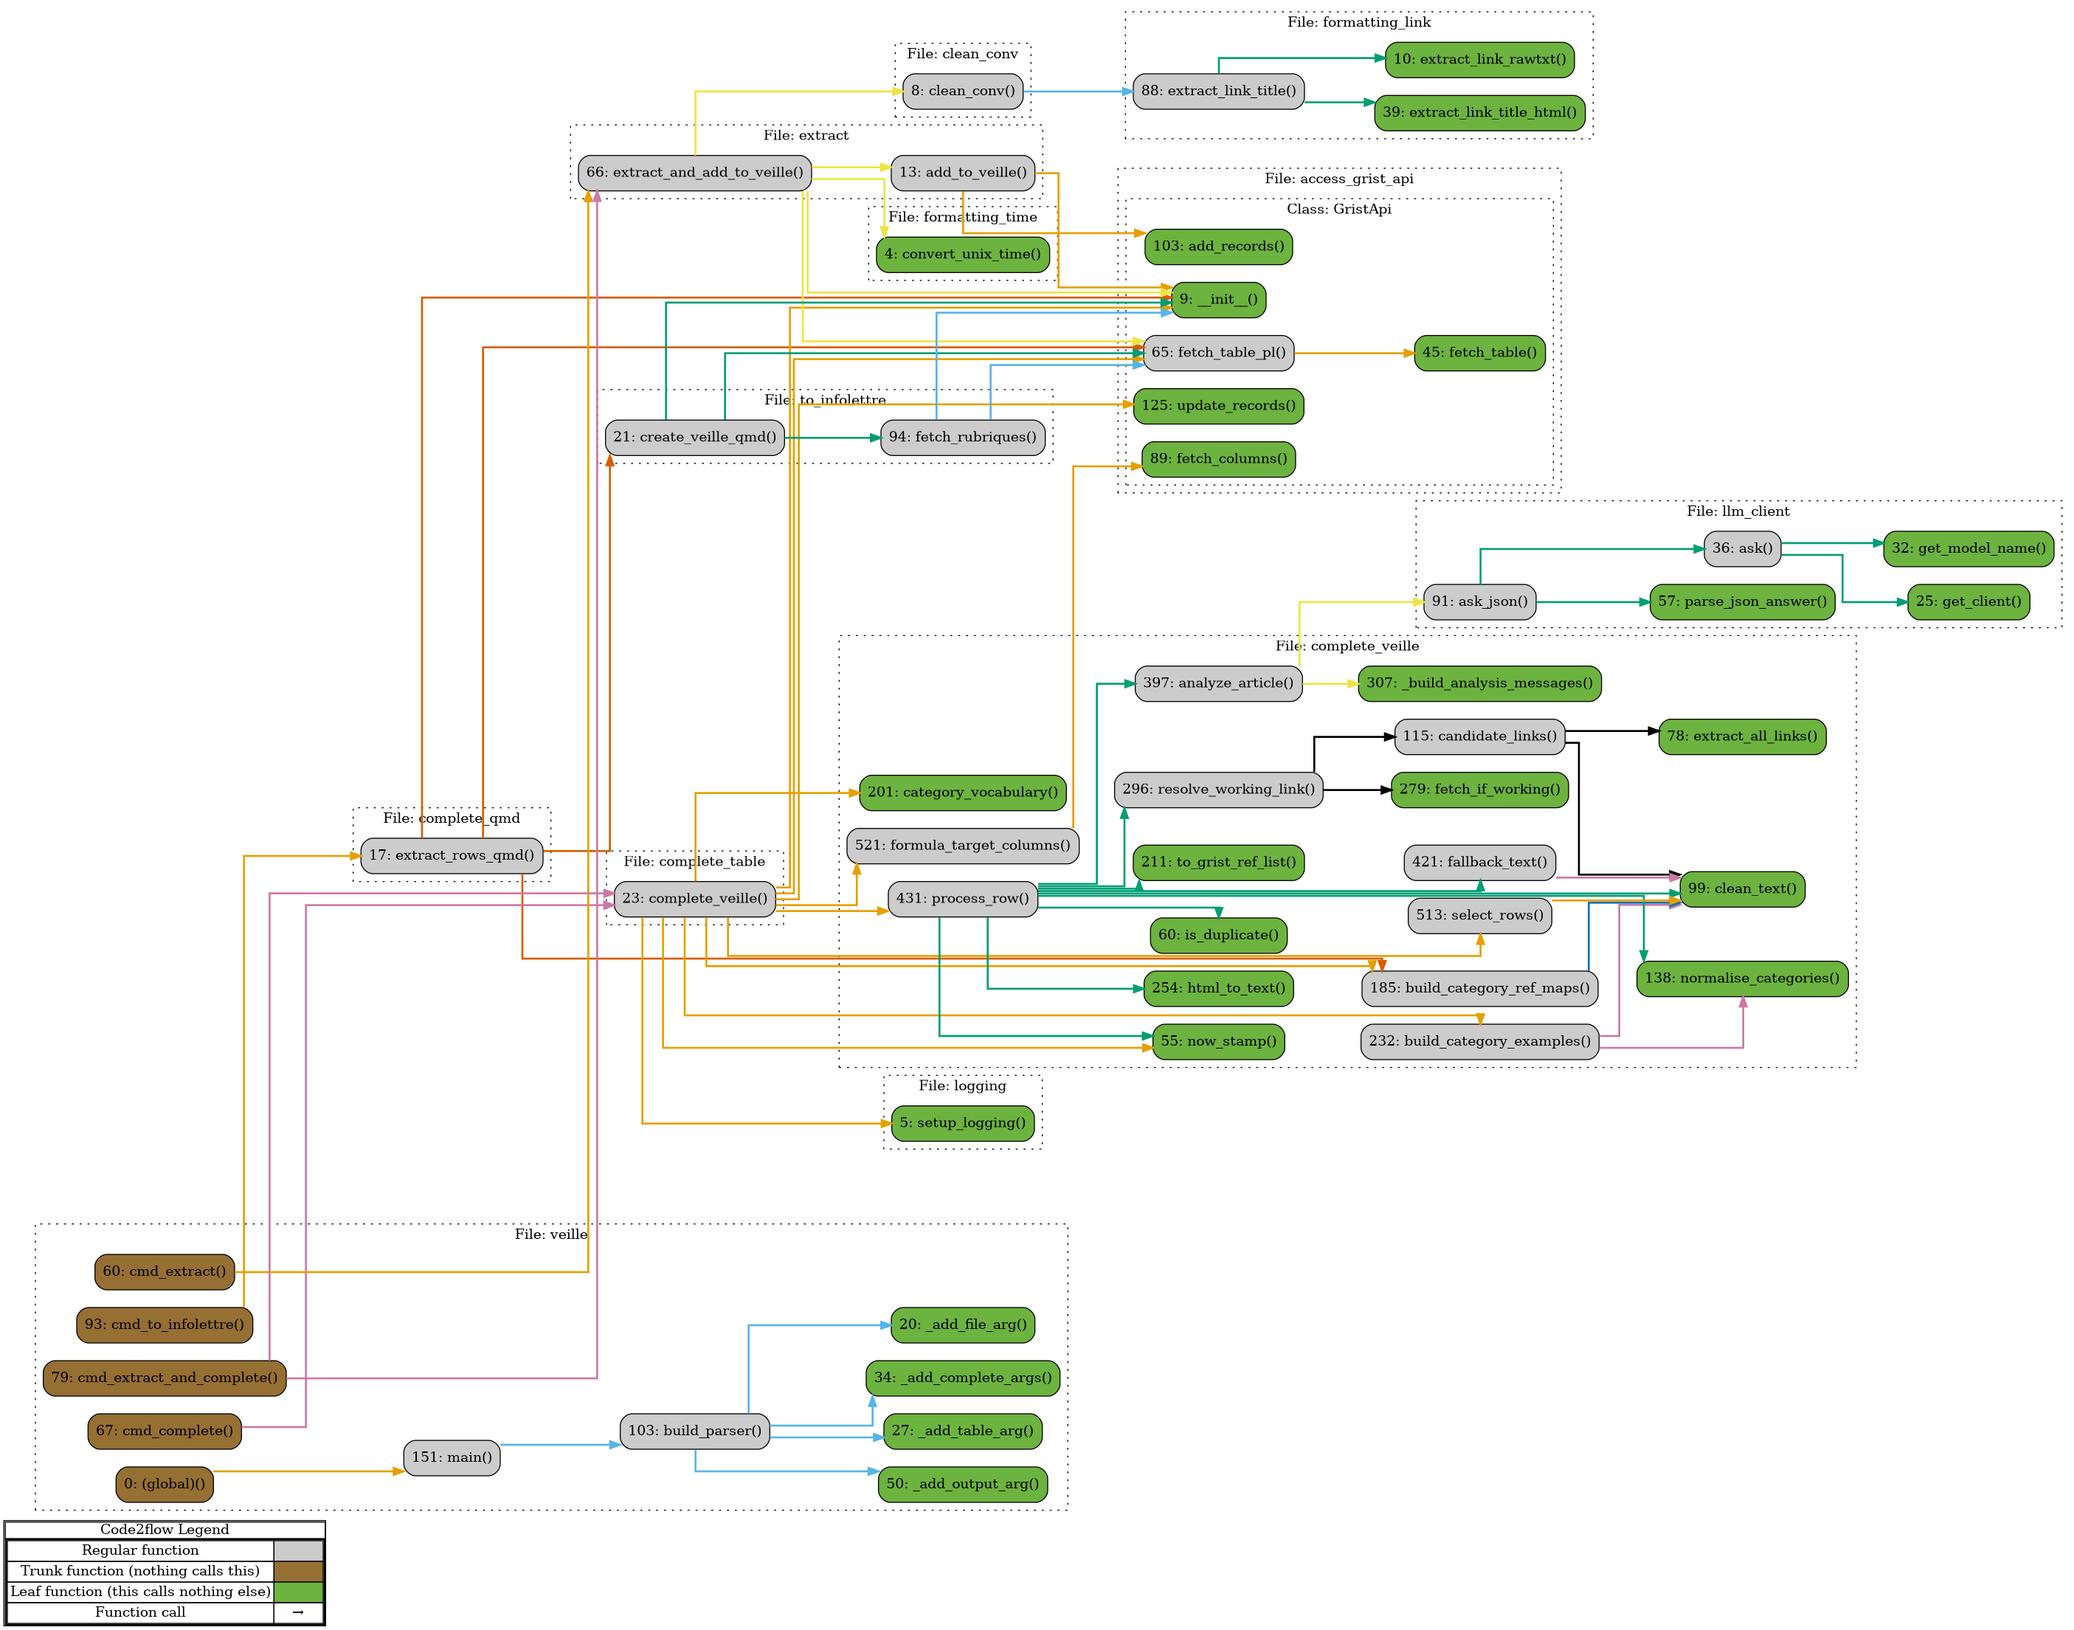
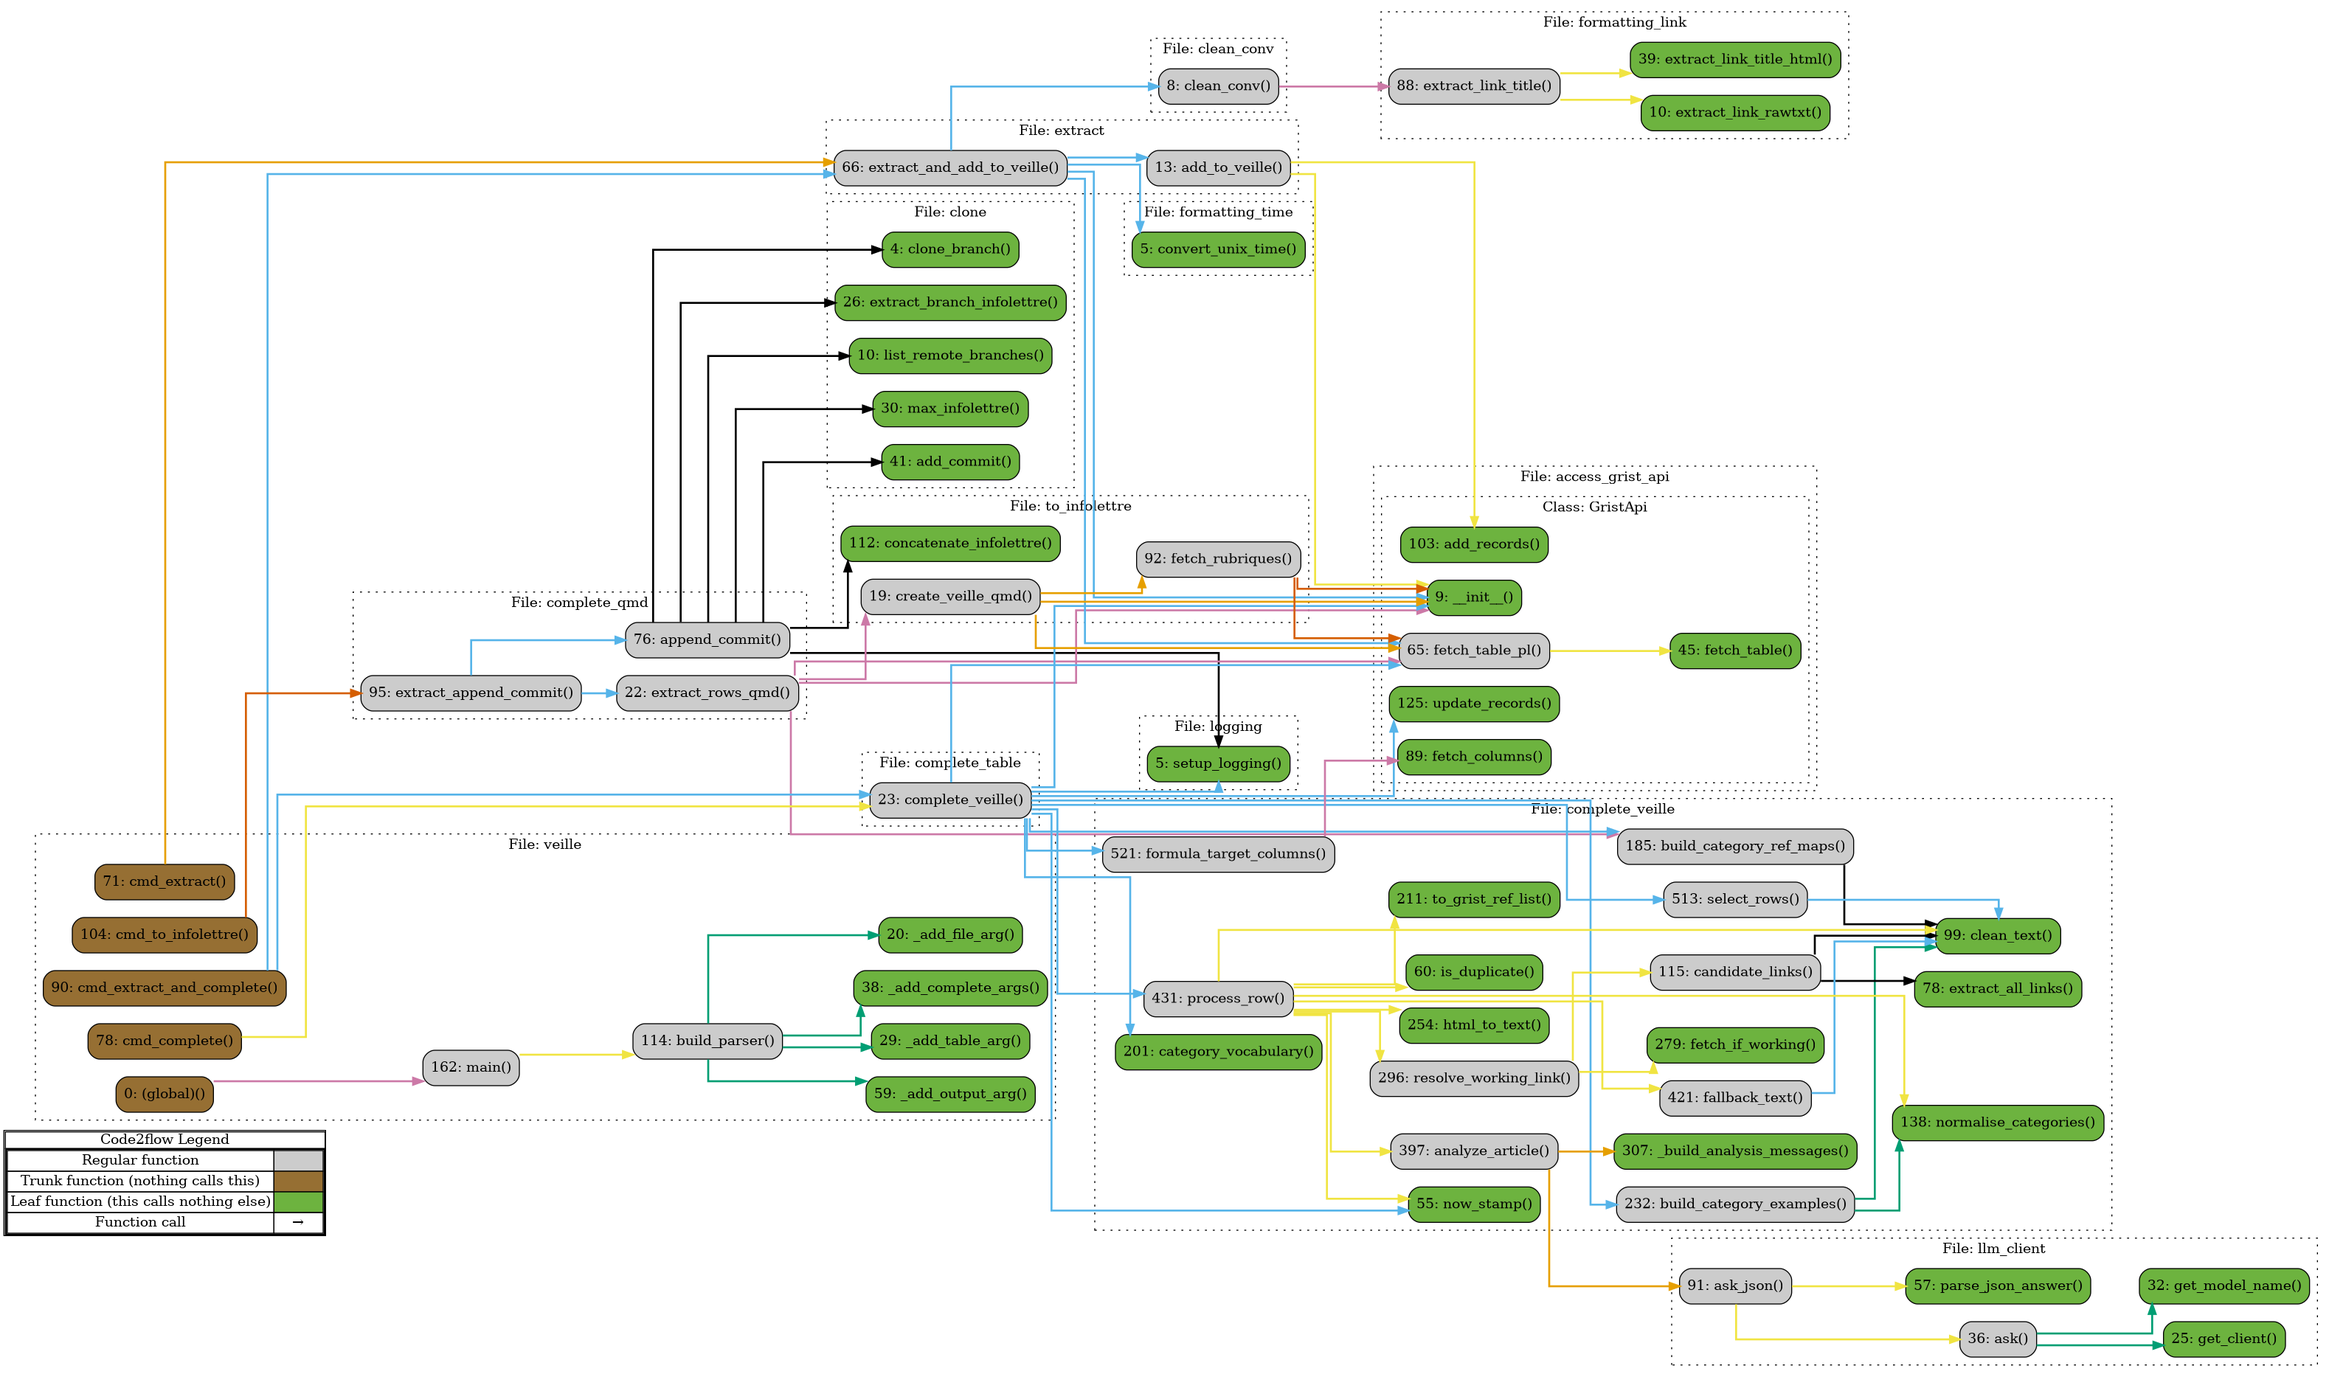
Add function to commit veille output to SSPHub (#21)
* with file concatenation

* file concatenation with logger

* init git part

* extract infolettre max nb

* extract branches

* update extract infolettre from branch

* update extract max branch + git add commit

* add append and commit function

* add wraper extract and append commit

* fix bug add commit

* update global function

* add git push

* update doc

---------

diff --git a/src/complete_qmd.py b/src/complete_qmd.py
@@ -1,17 +1,22 @@
 """
-Once the data has been filled, extract all the "a_garder" and format them in 
+Once the data has been filled, extract all the "a_garder" and format them in
 markdown format for easier writing.
 """
 
-
 import polars as pl
 
-from src.utils.access_grist_api import GristApi
-from src.utils.logging import setup_logging
 from src.data.complete_veille import build_category_ref_maps
-
-from src.data.to_infolettre import create_veille_qmd
-from src.utils.config import TABLE_RUBRIQUES, COL_CATEGORY
+from src.data.to_infolettre import concatenate_infolettre, create_veille_qmd
+from src.git.clone import (
+    add_commit,
+    clone_branch,
+    extract_branch_infolettre,
+    list_remote_branches,
+    max_infolettre,
+)
+from src.utils.access_grist_api import GristApi
+from src.utils.config import COL_CATEGORY, TABLE_RUBRIQUES
+from src.utils.logging import setup_logging
 
 
 def extract_rows_qmd(
@@ -20,12 +25,12 @@ def extract_rows_qmd(
     logger=setup_logging(),
 ):
     """
-    wrapper to extract from the table records a garder, format them into a markdown list 
+    wrapper to extract from the table records a garder, format them into a markdown list
     and store them as qmd file.
 
     Args:
         input_table : Grist table id to fetch the rows from.
-        output_path (string) : path of the Qmd file to store the results 
+        output_path (string) : path of the Qmd file to store the results
 
     Returns:
         the markdown formatted text
@@ -37,21 +42,14 @@ def extract_rows_qmd(
 
     # Download data to filter urls
     logger.info(f"Début du téléchargement de la table Grist cible {input_table}")
-    veille_df = (
-        api.fetch_table_pl(table_id=input_table)
-    )
+    veille_df = api.fetch_table_pl(table_id=input_table)
     logger.info(
         f"Table Grist cible {input_table} téléchargée, nombre de lignes : {len(veille_df)}"
     )
 
     # Filter new articles in former Grist table
     logger.info("Filtrer les lignes à insérer dans la veille")
-    veille_df = (
-        veille_df
-        .filter(
-            pl.col("A_garder"), pl.col("Lien_veille") == ""
-        )
-    )
+    veille_df = veille_df.filter(pl.col("A_garder"), pl.col("Lien_veille") == "")
     logger.info(f"Nombre de lignes à garder sans veille renseignée: {len(veille_df)}")
 
     # Update categories with labels and not ids
@@ -59,18 +57,46 @@ def extract_rows_qmd(
     rubriques_rows = api.fetch_table_pl(TABLE_RUBRIQUES).to_dicts()
     id_to_name, _ = build_category_ref_maps(rubriques_rows)
     veille_df = (
-        veille_df
-        .explode(COL_CATEGORY)
-        .filter(
-            pl.col(COL_CATEGORY) != "L"
-        )  # droping "L"
+        veille_df.explode(COL_CATEGORY)
+        .filter(pl.col(COL_CATEGORY) != "L")  # droping "L"
         .with_columns(pl.col(COL_CATEGORY).replace(id_to_name))  # renaming
         .sort(by=pl.col(COL_CATEGORY).str.to_lowercase())
         .group_by("id")
         .agg(pl.col(COL_CATEGORY))
-        .join(veille_df.drop(COL_CATEGORY), how="right", on="id", maintain_order="right")
+        .join(
+            veille_df.drop(COL_CATEGORY), how="right", on="id", maintain_order="right"
+        )
     )
 
     logger.info("Remplacement des catégories effectué")
 
     return create_veille_qmd(veille_df, output_path, logger)
+
+
+def append_commit(
+    output_path="veille.qmd", repo="https://github.com/inseefrlab/ssphub"
+):
+
+    folder_repo = repo.split("/")[-1]
+    _, infolettre_branch = max_infolettre(
+        extract_branch_infolettre(list_remote_branches(repo))
+    )
+    clone_branch(repo, infolettre_branch)
+    infolettre_file_name = f"infolettre/{infolettre_branch}/index.qmd"
+    concatenate_infolettre(
+        output_path,
+        infolettre_file_name=f"../{folder_repo}/{infolettre_file_name}",
+        logger=setup_logging(),
+    )
+
+    add_commit(infolettre_file_name, folder_repo, infolettre_branch)
+
+
+def extract_append_commit(
+    input_table="Veille",
+    output_path="veille.qmd",
+    logger=setup_logging(),
+):
+
+    extract_rows_qmd(input_table=input_table, output_path=output_path, logger=logger)
+    append_commit(output_path=output_path, repo="https://github.com/inseefrlab/ssphub")

diff --git a/src/data/to_infolettre.py b/src/data/to_infolettre.py
@@ -1,21 +1,19 @@
 """
-Once the data has been filled, extract all the "a_garder" and format them in 
+Once the data has been filled, extract all the "a_garder" and format them in
 markdown format for easier writing.
 """
-
 
 import polars as pl
 
 from src.utils.access_grist_api import GristApi
-from src.utils.logging import setup_logging
-from src.utils.config import COL_LINK
-
 from src.utils.config import (
-    TABLE_RUBRIQUES,
     COL_CATEGORY,
+    COL_LINK,
     COL_RUBRIQUE_CATEGORY,
-    COL_RUBRIQUE_RUBRIQUE
+    COL_RUBRIQUE_RUBRIQUE,
+    TABLE_RUBRIQUES,
 )
+from src.utils.logging import setup_logging
 
 
 def create_veille_qmd(
@@ -24,7 +22,7 @@ def create_veille_qmd(
     logger=setup_logging(),
 ):
     """
-    Summarise all the rows of a Polars dataframe to the following format: 
+    Summarise all the rows of a Polars dataframe to the following format:
     ## IA : [tags according to Rubriques table]
     - [Titre_article](lien_article): Resume
     Catégories: categories
@@ -68,22 +66,22 @@ def create_veille_qmd(
     # Process each category group in the right order
     for group in groups_ordered:
         keywords = rubriques_groups[group]
-        filtered_df = (
-            veille_df
-            .remove(pl.col("id").is_in(added_rows_ids))
-            .filter(
-                pl.any_horizontal(*[pl.col(COL_CATEGORY).list.contains(keyword) for keyword in keywords])
+        filtered_df = veille_df.remove(pl.col("id").is_in(added_rows_ids)).filter(
+            pl.any_horizontal(
+                *[pl.col(COL_CATEGORY).list.contains(keyword) for keyword in keywords]
             )
         )
         if filtered_df.height > 0:
             markdown_content += f"## {group} :\n"
             for row in filtered_df.iter_rows(named=True):
-                titre = row['Titre_article']
+                titre = row["Titre_article"]
                 lien = row[COL_LINK]
-                resume = row['Resume']
+                resume = row["Resume"]
                 categories = ", ".join(row[COL_CATEGORY])
-                markdown_content += f"- [{titre}]({lien}): {resume}\nCatégories : {categories}\n\n"
-                added_rows_ids = added_rows_ids + [row['id']]
+                markdown_content += (
+                    f"- [{titre}]({lien}): {resume}\nCatégories : {categories}\n\n"
+                )
+                added_rows_ids = added_rows_ids + [row["id"]]
     # Save to file
     with open(output_path, "w", encoding="utf-8") as f:
         f.write(markdown_content)
@@ -95,7 +93,7 @@ def fetch_rubriques(logger=setup_logging()):
     """
     To fetch categories from the Rubrique table and send it back as a dictionnary 'Rubrique' : [list of categories]
 
-    Args : 
+    Args :
 
     """
     logger.info(f"Récupération des catégories de la table {TABLE_RUBRIQUES}")
@@ -103,10 +101,35 @@ def fetch_rubriques(logger=setup_logging()):
 
     logger.info("Transformation en dictionnaire de catégories")
     rubriques_groups = dict(
-        rubriques_df
-        .group_by(COL_RUBRIQUE_RUBRIQUE)
+        rubriques_df.group_by(COL_RUBRIQUE_RUBRIQUE)
         .agg(pl.col(COL_RUBRIQUE_CATEGORY))
         .iter_rows()
     )
 
     return rubriques_groups
+
+
+def concatenate_infolettre(
+    file_to_append, infolettre_file_name="index.qmd", logger=setup_logging()
+):
+    """
+    To append a text file at the end of another text file
+    Args :
+
+    """
+    logger.info(f"Ajout de {file_to_append} à la fin de {infolettre_file_name}")
+
+    with (
+        open(file_to_append, "r") as infile,
+        open(infolettre_file_name, "a") as outfile,
+    ):
+        outfile.write(infile.read())
+
+    logger.info(f"{file_to_append} a été ajouté à la fin de {infolettre_file_name}")
+
+    with open(infolettre_file_name, "r") as file:
+        concatenated_content = file.read()
+
+    logger.info(f"Le contenu est {concatenated_content}")
+
+    return concatenated_content

diff --git a/veille.py b/veille.py
@@ -19,37 +19,48 @@ import argparse
 # --------------------------------------------------------------------------- #
 def _add_file_arg(parser):
     parser.add_argument(
-        "-f", "--file", default="export.json",
+        "-f",
+        "--file",
+        default="export.json",
         help="Tchap json export to read (default: export.json).",
     )
 
 
 def _add_table_arg(parser):
     parser.add_argument(
-        "-t", "--table", default="Test",
+        "-t",
+        "--table",
+        default="Test",
         help="Grist table id (default: Test).",
     )
 
 
 def _add_complete_args(parser):
     parser.add_argument(
-        "--limit", type=int, default=None,
+        "--limit",
+        type=int,
+        default=None,
         help="Cap the number of rows completed (handy for testing).",
     )
     parser.add_argument(
-        "--dry-run", action="store_true",
+        "--dry-run",
+        action="store_true",
         help="Completion step only: compute the updates and log them, but do not "
         "write them back to Grist.",
     )
     parser.add_argument(
-        "--n-examples", type=int, default=15,
+        "--n-examples",
+        type=int,
+        default=15,
         help="Number of example category assignments sent to the LLM (default: 15).",
     )
 
 
 def _add_output_arg(parser):
     parser.add_argument(
-        "-o", "--output", default="veille.qmd",
+        "-o",
+        "--output",
+        default="veille.qmd",
         help="Name of the QMD output file (default: veille.qmd).",
     )
 
@@ -78,8 +89,8 @@ def cmd_complete(args):
 
 def cmd_extract_and_complete(args):
     """Extract from a Tchap export, then complete the (new) rows in one go."""
-    from src.extract import extract_and_add_to_veille
     from src.complete_table import complete_veille
+    from src.extract import extract_and_add_to_veille
 
     extract_and_add_to_veille(input_conv_file_path=args.file, target_table=args.table)
     complete_veille(
@@ -92,9 +103,9 @@ def cmd_extract_and_complete(args):
 
 def cmd_to_infolettre(args):
     """Extract selected links from Grist and create qmd infolettre."""
-    from src.complete_qmd import extract_rows_qmd
+    from src.complete_qmd import extract_append_commit
 
-    extract_rows_qmd(input_table=args.table, output_path=args.output)
+    extract_append_commit(input_table=args.table, output_path=args.output)
 
 
 # --------------------------------------------------------------------------- #

diff --git a/src/git/clone.py b/src/git/clone.py
@@ -1,0 +1,45 @@
+import subprocess
+
+
+def clone_branch(repo_url, branch):
+    """Clone a repo directly on the specified branch."""
+    cmd = ["git", "clone", "--branch", branch, "--depth", "1", repo_url]
+    subprocess.run(cmd, cwd="../", check=True)
+
+
+def list_remote_branches(repo_url):
+    """List branch names of a remote repo without cloning."""
+    result = subprocess.run(
+        ["git", "ls-remote", "--heads", repo_url],
+        check=True,
+        capture_output=True,
+        text=True,
+    )
+    branches = []
+    for line in result.stdout.splitlines():
+        # Each line looks like: <commit-hash>\trefs/heads/<branch-name>
+        ref = line.split("\t")[1]
+        branches.append(ref.removeprefix("refs/heads/"))
+    return branches
+
+
+def extract_branch_infolettre(branch_list):
+    return [branch for branch in branch_list if branch.startswith("infolettre")]
+
+
+def max_infolettre(branch_list):
+    """Return the highest NN among branch_list infolettre_NN."""
+    max_num = 0
+    max_branch = ""
+    for branch in branch_list:
+        num = int(branch[-2:])
+        max_num = max(max_num, num)
+        max_branch = branch
+    return max_num, max_branch
+
+
+def add_commit(file, repo, infolettre_branch):
+    message = f"Add veille to {infolettre_branch}"
+    subprocess.run(["git", "add", file], cwd=f"../{repo}", check=True)
+    subprocess.run(["git", "commit", "-m", message], cwd=f"../{repo}", check=True)
+    subprocess.run(["git", "push"], cwd=f"../{repo}", check=True)

diff --git a/README.md b/README.md
@@ -164,10 +164,10 @@ uv run veille.py complete -t Veille                   # then the rest
 
 ## Step 3 — Export the selected articles to the newsletter
 
-Once you're finished reviewing the rows, export them as a QMD file ready for the newsletter:
+Once you're finished reviewing the rows, you can append them to the QMD file of the newsletter:
 
 ```bash
-uv run veille.py to-infolettre -t Veille            # -> produces a veille.qmd file
+uv run veille.py to-infolettre -t Veille            # -> produces a veille.qmd file and appends it to the newsletter
 uv run veille.py to-infolettre -t Veille -o jan.qmd # custom output name
 ```
 
@@ -176,12 +176,17 @@ This selects rows where `A_garder` is true and `Lien_veille` is still empty
 groups the entries by their `Rubrique` and writes them in the order given by the
 `Ordre` column of the `Rubriques` table.
 
+It then get the branches of the `ssphub` repo, get the newsletter branch's name,
+fetch it, append the veille.qmd file at the end of the newsletter file and push it.
+
+**MAKE SURE THE REMOTE BRANCH IS UP TO DATE WITH YOUR WORK BEFORE DOING THIS STEP**
+
 ### `to-infolettre` options
 
-| Option         | Effect                                                |
-| -------------- | ----------------------------------------------------- |
-| `-t, --table`  | Grist table id to read (default `Test`).              |
-| `-o, --output` | Name of the QMD file to write (default `veille.qmd`). |
+| Option         | Effect                                                        |
+| -------------- | ------------------------------------------------------------- |
+| `-t, --table`  | Grist table id to read (default `Test`).                      |
+| `-o, --output` | Name of the interim QMD file to write (default `veille.qmd`). |
 
 ## How completion works, row by row
 
